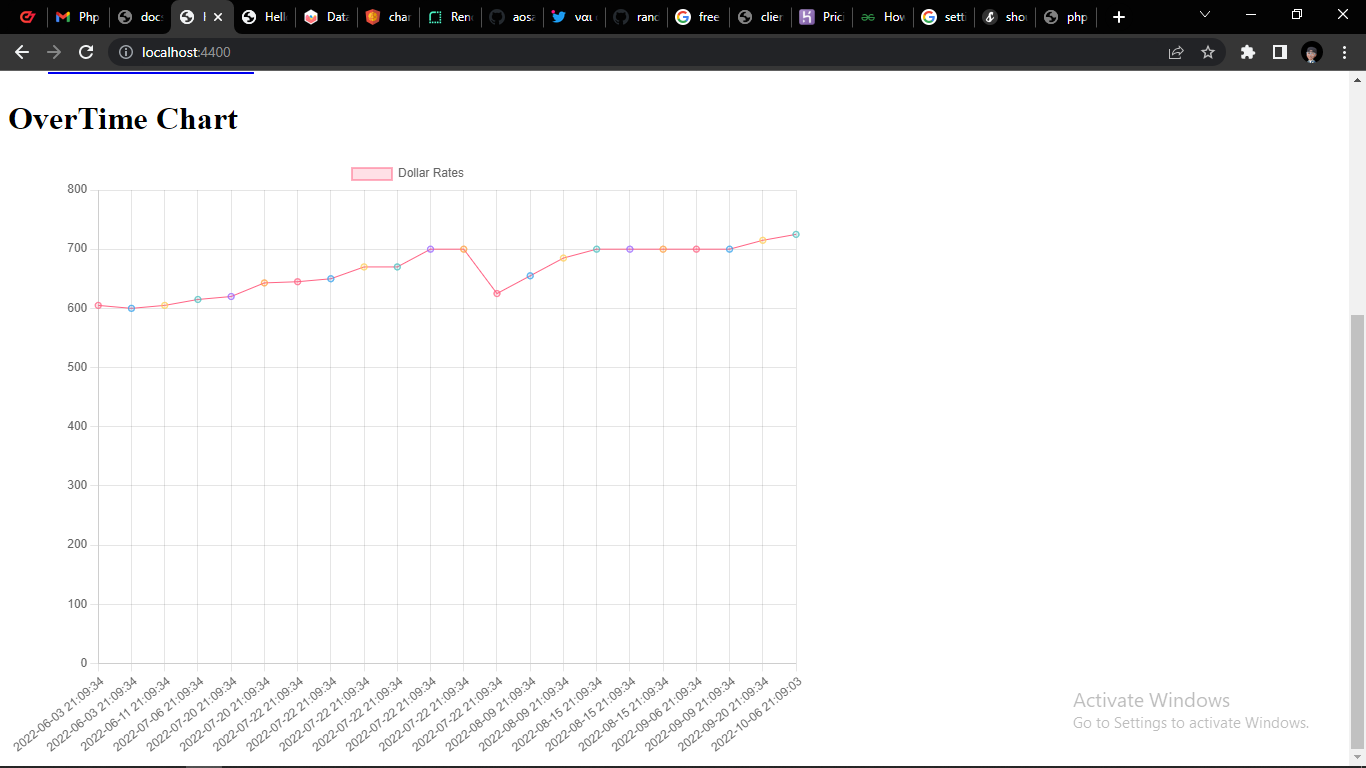
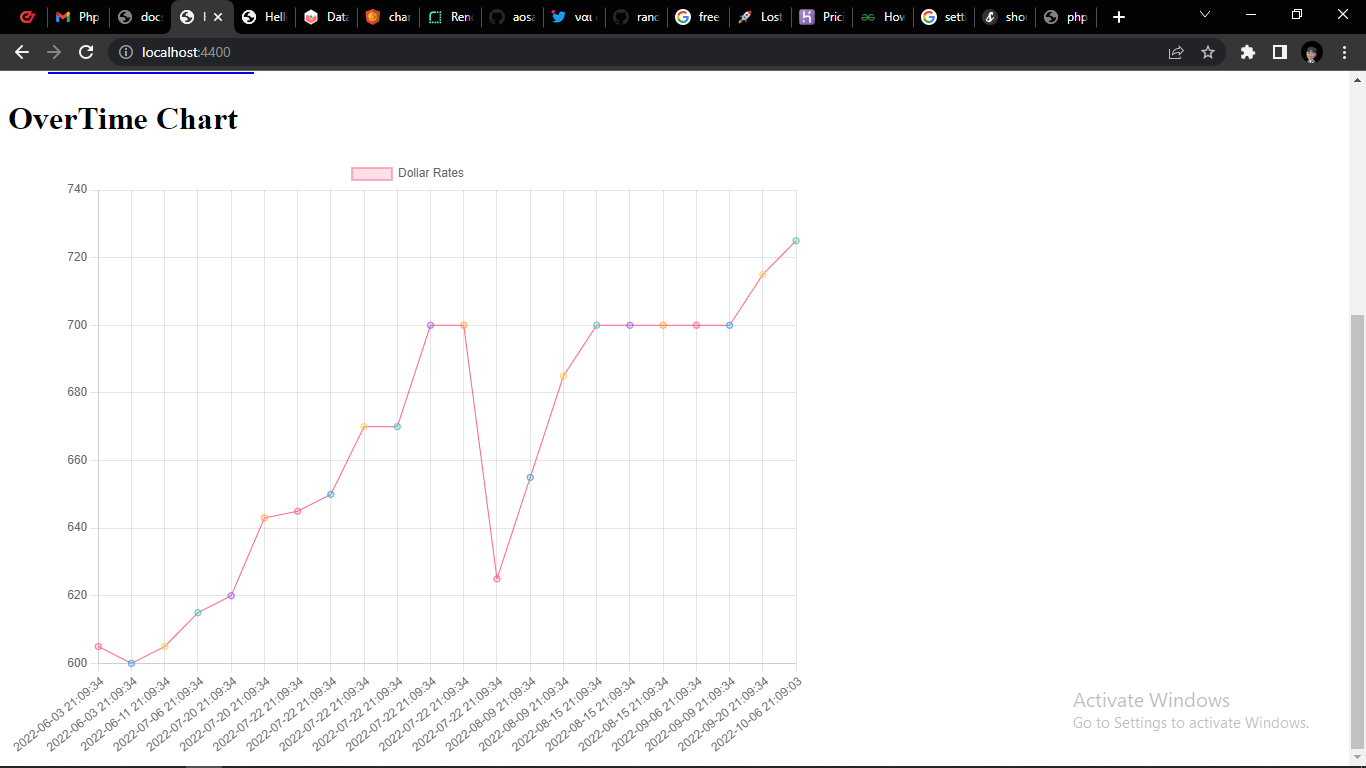
push

diff --git a/src/Views/index.php b/src/Views/index.php
@@ -87,7 +87,7 @@ integrity="sha256-+8RZJua0aEWg+QVVKg4LEzEEm/8RFez5Tb4JBNiV5xA=" crossorigin="ano
         options: {
             scales: {
                 y: {
-                    beginAtZero: true
+                    // beginAtZero: true
                 }
             }
         }

diff --git a/README.md b/README.md
@@ -5,8 +5,8 @@ This is a project that reads a csv file with data of dollar rate and the date bu
 ## Approaches
 
 - I will use [chart.js](https://www.chartjs.org) for a chart representaton
-- I used [php-router library](https://github.com/aosasona/php-router) for easy routing
-- for showing the chart i built a mini api to be consumed by the frontend while other datas are been echoed out directly
+- I used [php-router library](https://github.com/aosasona/php-router) for easy routing.
+- For showing the chart i built a mini api to be consumed by the frontend while other datas are been echoed out directly
 
 ### Running it
 
